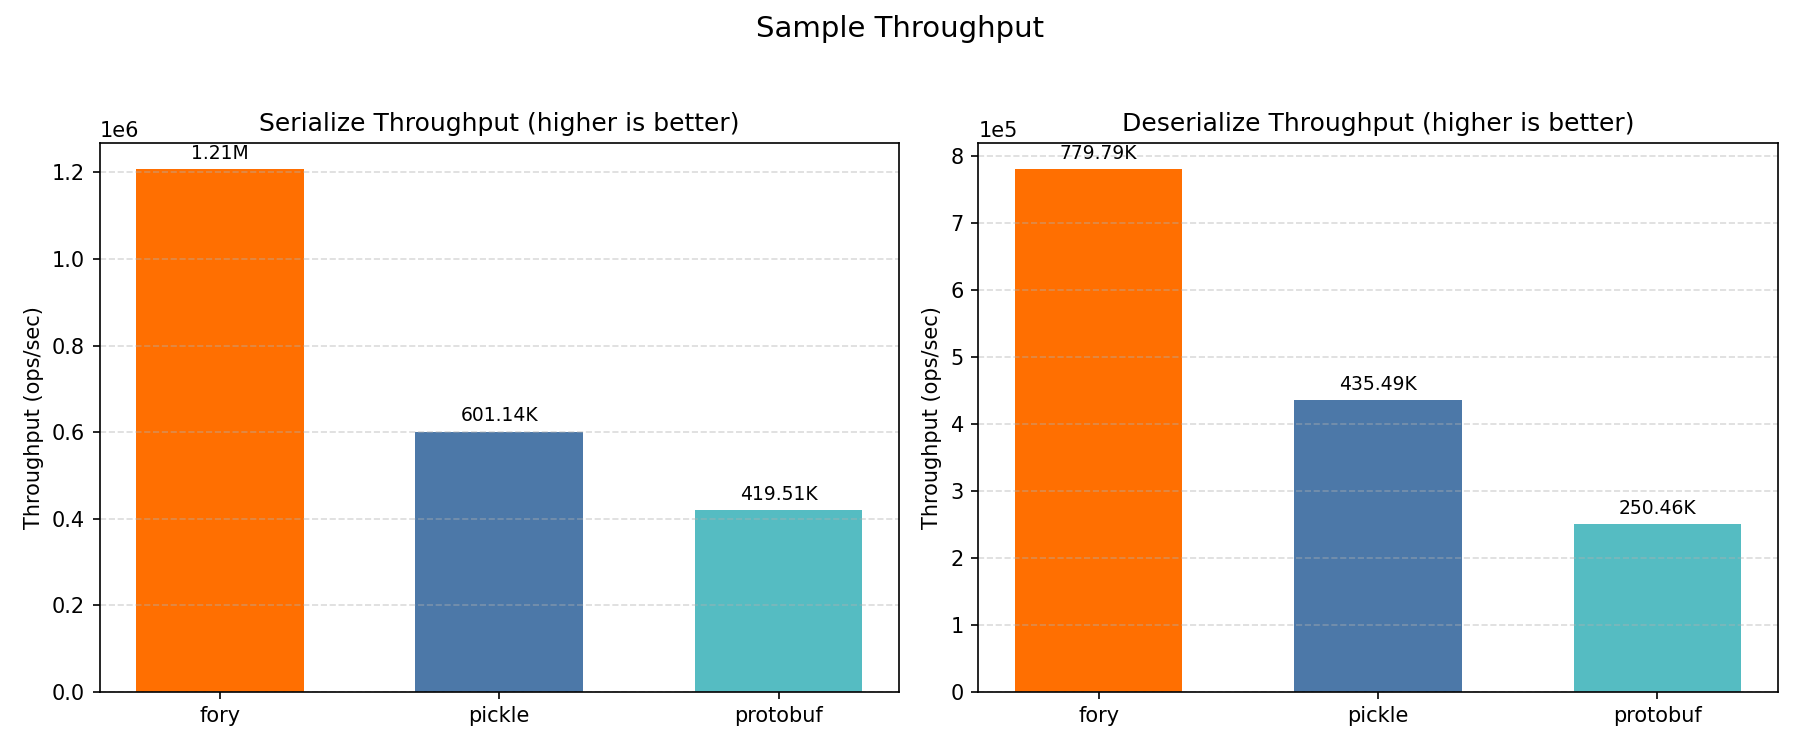
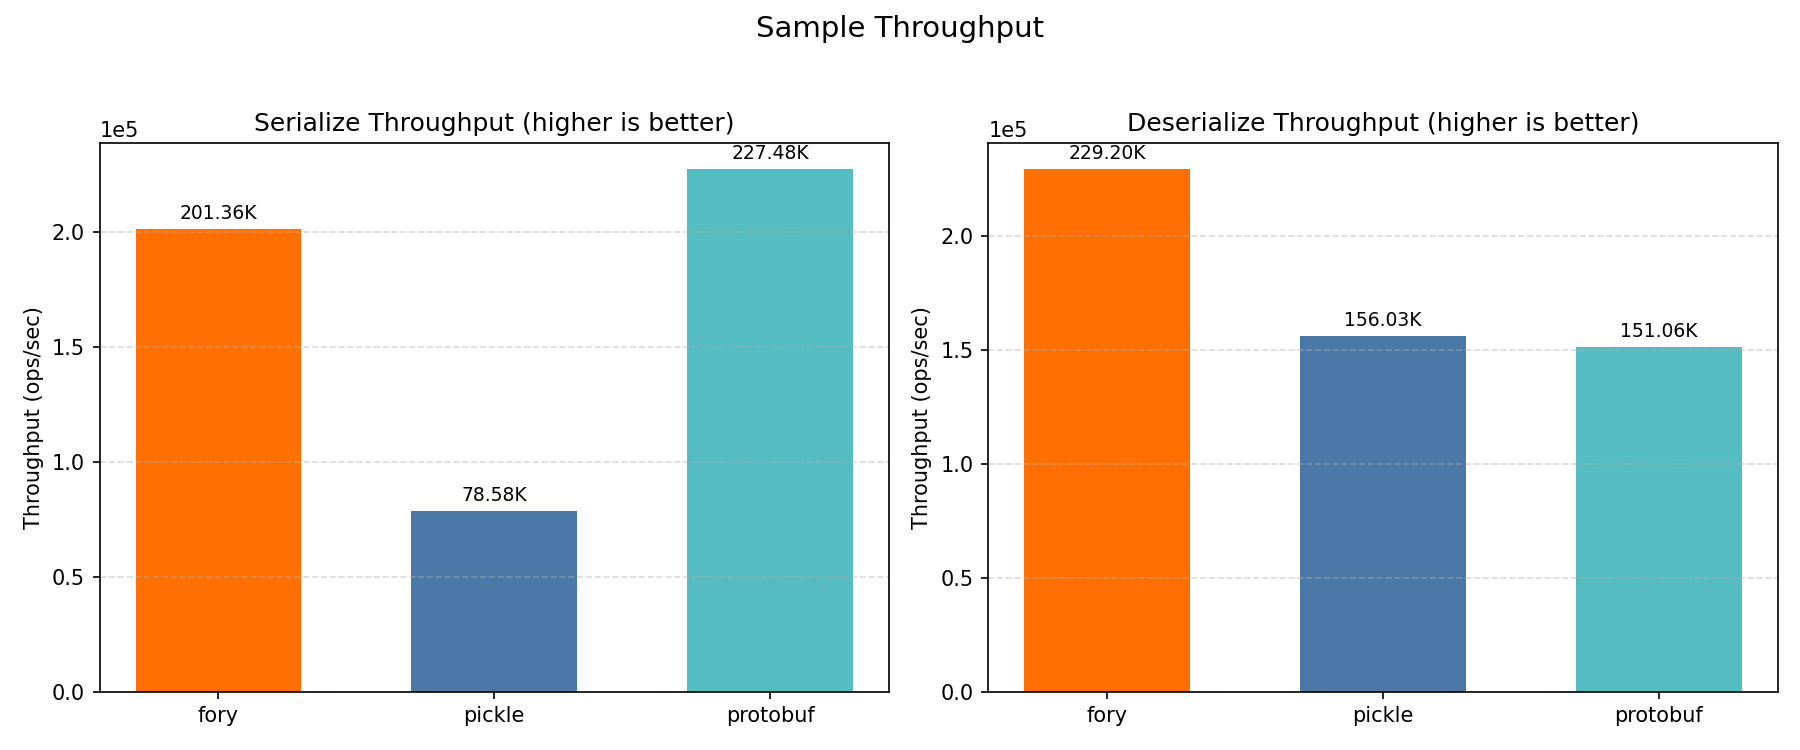
update python benchmarks

diff --git a/docs/benchmarks/python/README.md b/docs/benchmarks/python/README.md
@@ -1,6 +1,6 @@
 # Python Benchmark Performance Report
 
-_Generated on 2026-03-03 13:42:38_
+_Generated on 2026-04-14 14:53:18_
 
 ## How to Generate This Report
 
@@ -69,45 +69,45 @@ All plots show throughput (ops/sec); higher is better.
 
 ### Timing Results (nanoseconds)
 
-| Datatype         | Operation   | fory (ns) | pickle (ns) | protobuf (ns) | Fastest |
-| ---------------- | ----------- | --------- | ----------- | ------------- | ------- |
-| Struct           | Serialize   | 417.9     | 868.9       | 548.9         | fory    |
-| Struct           | Deserialize | 516.1     | 910.6       | 742.4         | fory    |
-| Sample           | Serialize   | 828.1     | 1663.5      | 2383.7        | fory    |
-| Sample           | Deserialize | 1282.4    | 2296.3      | 3992.7        | fory    |
-| MediaContent     | Serialize   | 1139.9    | 2859.7      | 2867.1        | fory    |
-| MediaContent     | Deserialize | 1719.5    | 2854.3      | 3236.1        | fory    |
-| StructList       | Serialize   | 1009.1    | 2630.6      | 3281.6        | fory    |
-| StructList       | Deserialize | 1387.2    | 2651.9      | 3547.9        | fory    |
-| SampleList       | Serialize   | 2828.3    | 5541.0      | 15256.6       | fory    |
-| SampleList       | Deserialize | 5043.4    | 8144.7      | 18912.5       | fory    |
-| MediaContentList | Serialize   | 3417.9    | 9341.9      | 15853.2       | fory    |
-| MediaContentList | Deserialize | 6138.7    | 8435.3      | 16442.6       | fory    |
+| Datatype         | Operation   | fory (ns) | pickle (ns) | protobuf (ns) | Fastest  |
+| ---------------- | ----------- | --------- | ----------- | ------------- | -------- |
+| Struct           | Serialize   | 431.3     | 963.9       | 604.3         | fory     |
+| Struct           | Deserialize | 476.6     | 925.1       | 804.8         | fory     |
+| Sample           | Serialize   | 4966.3    | 12725.1     | 4396.0        | protobuf |
+| Sample           | Deserialize | 4362.9    | 6409.2      | 6620.1        | fory     |
+| MediaContent     | Serialize   | 1213.1    | 4263.1      | 3173.7        | fory     |
+| MediaContent     | Deserialize | 1620.7    | 4625.8      | 4306.3        | fory     |
+| StructList       | Serialize   | 1072.0    | 2798.6      | 3759.0        | fory     |
+| StructList       | Deserialize | 1334.7    | 2756.7      | 3963.5        | fory     |
+| SampleList       | Serialize   | 23866.8   | 33484.5     | 18711.7       | protobuf |
+| SampleList       | Deserialize | 17347.5   | 22999.0     | 36077.1       | fory     |
+| MediaContentList | Serialize   | 3526.9    | 11258.1     | 17670.6       | fory     |
+| MediaContentList | Deserialize | 6241.1    | 10209.5     | 21440.7       | fory     |
 
 ### Throughput Results (ops/sec)
 
-| Datatype         | Operation   | fory TPS  | pickle TPS | protobuf TPS | Fastest |
-| ---------------- | ----------- | --------- | ---------- | ------------ | ------- |
-| Struct           | Serialize   | 2,393,086 | 1,150,946  | 1,821,982    | fory    |
-| Struct           | Deserialize | 1,937,707 | 1,098,170  | 1,346,915    | fory    |
-| Sample           | Serialize   | 1,207,542 | 601,144    | 419,511      | fory    |
-| Sample           | Deserialize | 779,789   | 435,489    | 250,460      | fory    |
-| MediaContent     | Serialize   | 877,300   | 349,688    | 348,780      | fory    |
-| MediaContent     | Deserialize | 581,563   | 350,354    | 309,018      | fory    |
-| StructList       | Serialize   | 991,017   | 380,145    | 304,732      | fory    |
-| StructList       | Deserialize | 720,901   | 377,081    | 281,855      | fory    |
-| SampleList       | Serialize   | 353,574   | 180,473    | 65,545       | fory    |
-| SampleList       | Deserialize | 198,280   | 122,780    | 52,875       | fory    |
-| MediaContentList | Serialize   | 292,578   | 107,045    | 63,079       | fory    |
-| MediaContentList | Deserialize | 162,902   | 118,550    | 60,818       | fory    |
+| Datatype         | Operation   | fory TPS  | pickle TPS | protobuf TPS | Fastest  |
+| ---------------- | ----------- | --------- | ---------- | ------------ | -------- |
+| Struct           | Serialize   | 2,318,598 | 1,037,429  | 1,654,700    | fory     |
+| Struct           | Deserialize | 2,098,391 | 1,081,003  | 1,242,545    | fory     |
+| Sample           | Serialize   | 201,358   | 78,585     | 227,479      | protobuf |
+| Sample           | Deserialize | 229,204   | 156,026    | 151,056      | fory     |
+| MediaContent     | Serialize   | 824,338   | 234,569    | 315,087      | fory     |
+| MediaContent     | Deserialize | 616,999   | 216,177    | 232,216      | fory     |
+| StructList       | Serialize   | 932,803   | 357,322    | 266,029      | fory     |
+| StructList       | Deserialize | 749,212   | 362,753    | 252,301      | fory     |
+| SampleList       | Serialize   | 41,899    | 29,865     | 53,442       | protobuf |
+| SampleList       | Deserialize | 57,645    | 43,480     | 27,718       | fory     |
+| MediaContentList | Serialize   | 283,535   | 88,825     | 56,591       | fory     |
+| MediaContentList | Deserialize | 160,227   | 97,948     | 46,640       | fory     |
 
 ### Serialized Data Sizes (bytes)
 
 | Datatype         | fory | pickle | protobuf |
 | ---------------- | ---- | ------ | -------- |
-| Struct           | 72   | 126    | 61       |
-| Sample           | 517  | 793    | 375      |
-| MediaContent     | 470  | 586    | 301      |
-| StructList       | 205  | 420    | 315      |
-| SampleList       | 1810 | 2539   | 1890     |
-| MediaContentList | 1756 | 1377   | 1520     |
+| Struct           | 58   | 126    | 61       |
+| Sample           | 446  | 1176   | 375      |
+| MediaContent     | 391  | 624    | 301      |
+| StructList       | 184  | 420    | 315      |
+| SampleList       | 1980 | 3546   | 1890     |
+| MediaContentList | 1665 | 1415   | 1520     |
